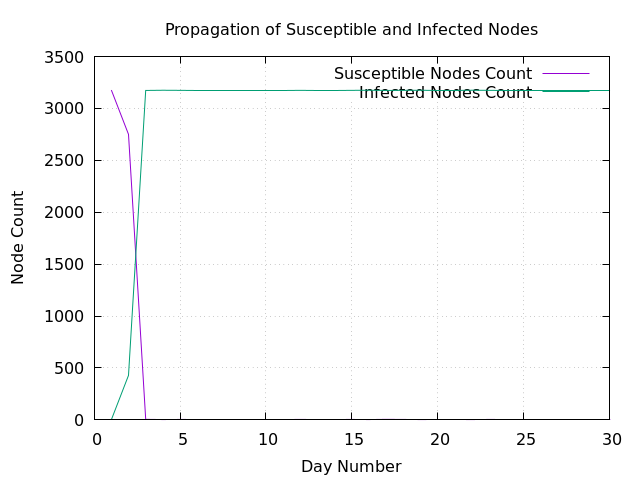
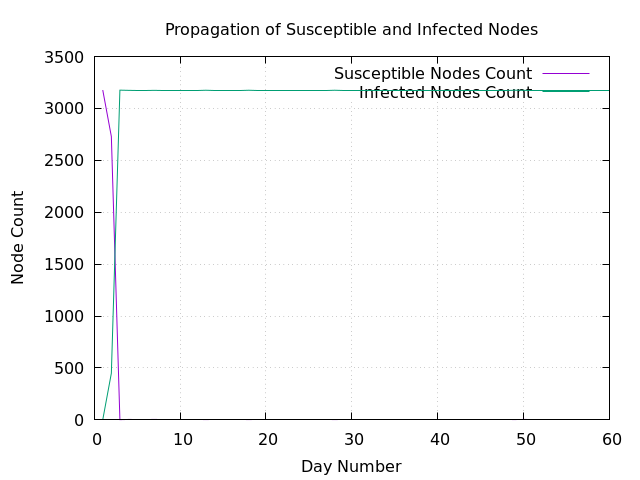
refactor

diff --git a/tpri/src/main/java/org/tpri/Main.java b/tpri/src/main/java/org/tpri/Main.java
@@ -153,15 +153,15 @@ public class Main {
                 //- averageDegree: 6.62208890914917
 
             //Graph graph = randomGen(317082, 6.62208890914917);
-            Graph graph = randomGen(31708, 6.62208890914917);
+            Graph graph = randomGen(3170, 6.62208890914917);
             //
             //doAnalysis(graph);
 
             double infectionProbability = 1.0/7;
             double recoveryProbability = 1.0/15;
-            int daysCount = 30;
+            int daysCount = 2* 30;
             SimulationModeleSIS simulationModeleSIS = new SimulationModeleSIS(infectionProbability, recoveryProbability, graph.nodes().toList());
-            simulationModeleSIS.simulatePropagation(30);
+            simulationModeleSIS.simulatePropagation(daysCount);
 
         }
 
